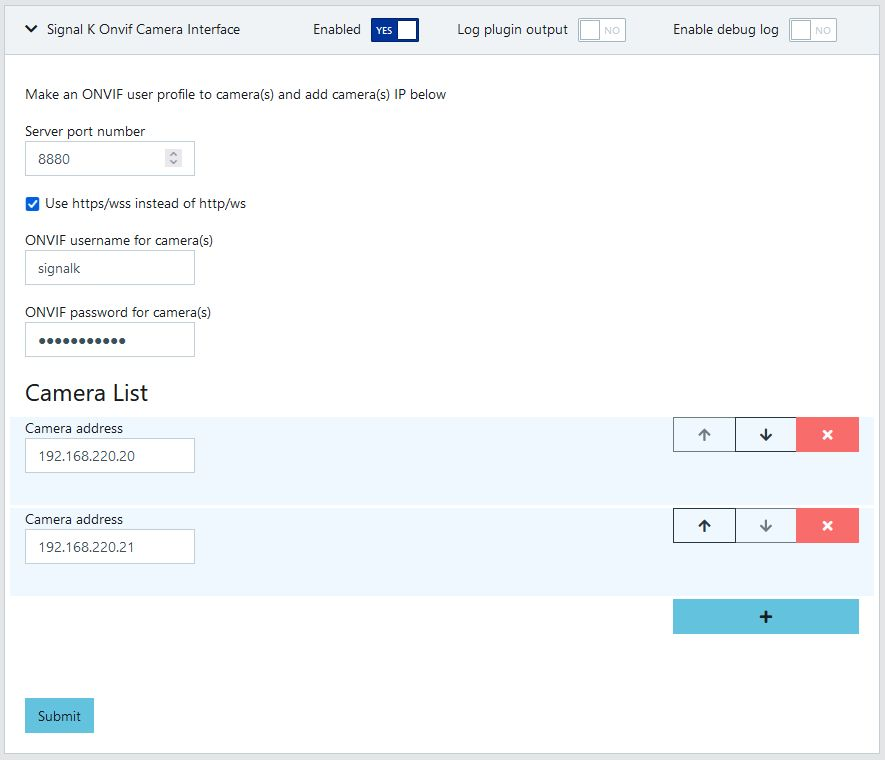
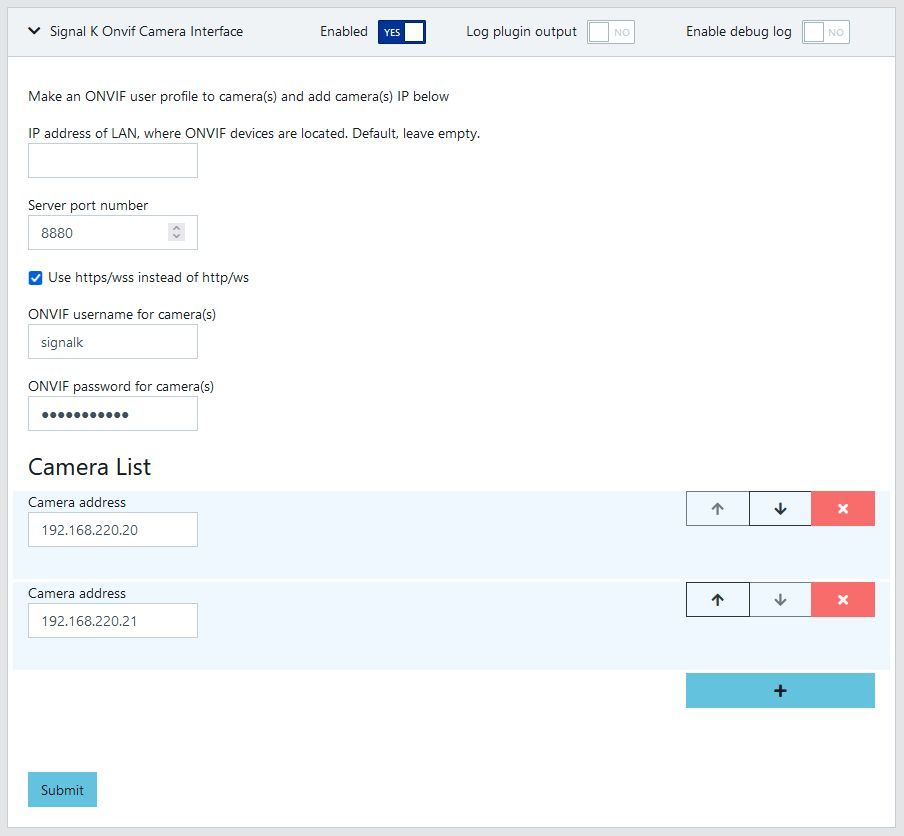
ONVIF LAN selection

diff --git a/index.js b/index.js
@@ -40,6 +40,7 @@ module.exports = function createPlugin(app) {
   plugin.description = "Signal K Onvif Camera Interface";
   const setStatus = app.setPluginStatus || app.setProviderStatus;
 
+  let ipAddress;
   let port;
   let secure;
   let wsServer;
@@ -52,6 +53,7 @@ module.exports = function createPlugin(app) {
   plugin.start = function (options, restartPlugin) {
     userName = options.userName;
     password = options.password;
+    ipAddress = options.ipAddress;
     port = options.port;
     secure = options.secure;
     const browserData = [{"secure": secure,"port": port}];
@@ -128,6 +130,10 @@ module.exports = function createPlugin(app) {
     title: 'Onvif Camera Interface',
     description: 'Make an ONVIF user profile to camera(s) and add camera(s) IP below',
     properties: {
+      ipAddress: {
+        type: 'string',
+        title: 'IP address of LAN, where ONVIF devices are located. Default, leave empty.',
+      },
       port: {
         type: 'number',
         title: 'Server port number',
@@ -257,7 +263,7 @@ module.exports = function createPlugin(app) {
     devices = {};
     let names = {};
     onvif
-      .startProbe()
+      .startProbe(ipAddress)
       .then((device_list) => {
         device_list.forEach((device) => {
           let odevice = new onvif.OnvifDevice({

diff --git a/lib/node-onvif.js b/lib/node-onvif.js
@@ -55,6 +55,7 @@ Onvif.prototype.startDiscovery = function(callback) {
 * Method: startProbe([callback])
 * ---------------------------------------------------------------- */
 Onvif.prototype.startProbe = function(callback) {
+	let ipAddress = callback;
 	let promise = new Promise((resolve, reject) => {
 		this._devices = {};
 		this._udp = mDgram.createSocket('udp4');
@@ -126,6 +127,13 @@ Onvif.prototype.startProbe = function(callback) {
 		});
 
 		this._udp.bind(() => {
+			if(ipAddress !== undefined) {
+				try {
+					this._udp.setMulticastInterface(ipAddress);	
+				} catch (error) {
+					console.error("Error, check ONVIF LAN IP address. Ignoring IP setting.")
+				}
+			}
 			this._udp.removeAllListeners('error');
 			this._sendProbe().then(() => {
 				// Do nothing.

diff --git a/README.md b/README.md
@@ -5,6 +5,7 @@ ONVIF Camera interface for Signal K. For IP cameras that support ONVIF control, 
 ## ONVIF Camera plugin config in Signal K server.
 
 ![config](doc/config.jpg)
+- IP address of ONVIF LAN. Default, leave empty
 - Select port for server
 - Select https/wss if you would like to use secure server
 - Enter ONVIF profile username
@@ -18,19 +19,19 @@ Example of HikVision IP camera ONVIF
 ![onvif](doc/onvif.jpg)
 - Add ONVIF user to IP camera if applicable
 
-## Onvif Camera Webapp.
+## ONVIF Camera Webapp.
 
 ![webapp](doc/webapp.jpg)
 -  Service can be accessed from Webapps menu, press "Signalk-onvif-camera" button 
 
-## Onvif Camera service.
+## ONVIF Camera service.
 
 ![service](doc/service.jpg)
-- Onvif cameras are searched from local network
+- ONVIF cameras are searched from local network
 - When search is ready then "Select a device" is prompted
 - Camera is selected from dropdown menu and then press "Connect" button
 
-## Onvif Camera in Use.
+## ONVIF Camera in Use.
 
 ![inuse](doc/inuse.jpg)
 - Cursors and home button for PTZ camera
@@ -52,6 +53,7 @@ $ npm install https://github.com/KEGustafsson/signalk-onvif-camera.git --save
 - v0.0.1, 1st version for testing
 - v0.0.2, license added
 - v0.1.0, 1st release
+- v0.1.1, ONVIF LAN selection
 
 ## Credits
 https://github.com/futomi/node-onvif 
